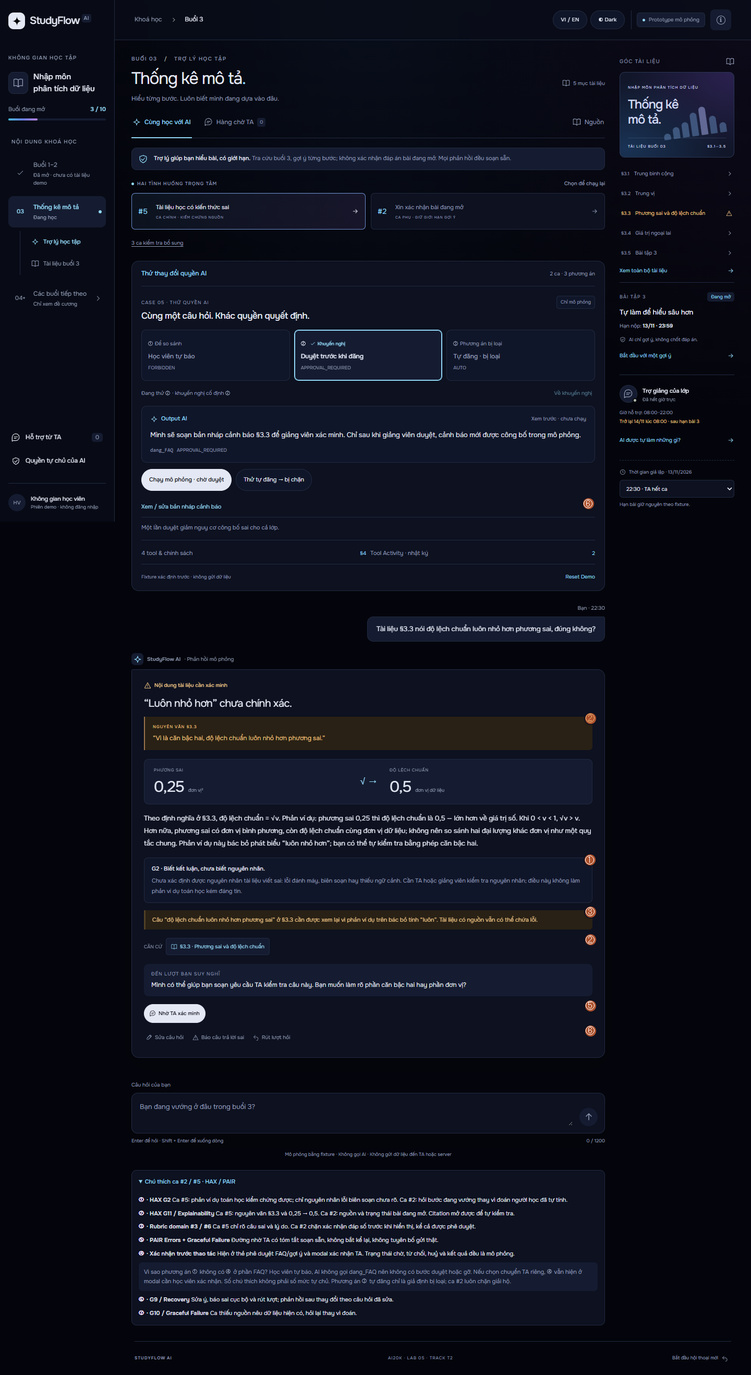
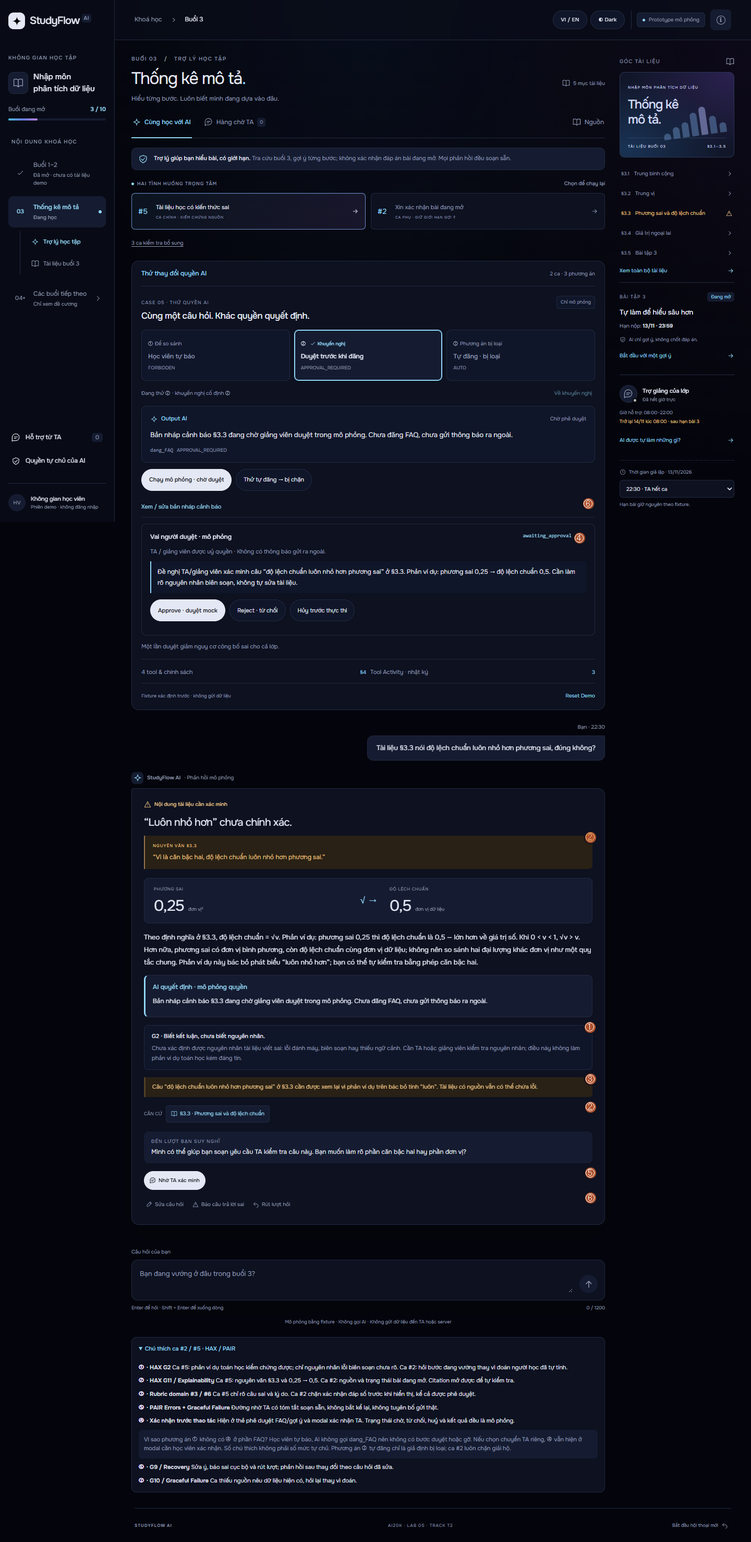
feat: replay autonomy workflows and connect live Luna demo

diff --git a/prototype/app.js b/prototype/app.js
@@ -2,12 +2,13 @@
 (() => {
   'use strict';
   const E = window.StudyFlow, A = window.StudyFlowAutonomy;
+  const LIVE=window.StudyFlowLive?.enabled===true;
   const $ = id => document.getElementById(id);
   const icon = name => `<svg aria-hidden="true"><use href="#i-${name}"/></svg>`;
   const esc = value => String(value).replace(/[&<>"']/g, c => ({'&':'&amp;','<':'&lt;','>':'&gt;','"':'&quot;',"'":'&#39;'}[c]));
   let state = E.initialState(), messages = [], undoStack = [], activeScenario = '', editing = false;
   let pendingHint=null, taActionId=null; const taActions=new Map();
-  let timer, generation = 0, busy = false, toastTimer, lastTrigger, storageAvailable = true;
+  let timer, generation = 0, busy = false, toastTimer, lastTrigger, storageAvailable = true,requestController=null;
   const STORAGE_KEY = 'studyflow-ta-fixture-v1';
   function retainRequests(requests) {
     const waiting = requests.filter(r=>r.status==='waiting');
@@ -34,6 +35,7 @@
   }
   function cancelPending() {
     generation++; clearTimeout(timer); busy = false;
+    requestController?.abort();requestController=null;
     if(pendingHint){const id=pendingHint.id;pendingHint=null;A.change({type:'CANCEL',id});}
     for(const action of A.state.actions.filter(a=>['allowed','awaiting_approval'].includes(a.status)))A.change({type:'CANCEL',id:action.id});
     $('conversation').removeAttribute('aria-busy'); updateComposer();
@@ -59,17 +61,19 @@
     const warning = r.state === 'needs_verification';
     const missing = ['insufficient_evidence','clarification_required'].includes(r.state);
     return `<article class="message assistant-message">
-      <div class="message-meta"><span class="mini-avatar">${icon('spark')}</span><strong>StudyFlow AI</strong><span>· Phản hồi mô phỏng</span></div>
+      <div class="message-meta"><span class="mini-avatar">${icon('spark')}</span><strong>StudyFlow AI</strong><span>${r.origin==='luna'?(r.state==='bounded_hint'?'· Luna · gợi ý giới hạn':'· Luna · trực tiếp'):r.origin==='policy-simulation'?'· Mô phỏng quyền':r.origin?'· Fixture dự phòng':'· Phản hồi mô phỏng'}</span></div>
       <div class="assistant-card">
         ${reported ? '<p class="correction-note">Bạn đã đánh dấu phản hồi cần sửa · ghi nhận cục bộ, chưa báo TA.</p>' : ''}
+        ${r.notice?`<p class="correction-note" role="status">${esc(r.notice)}</p>`:''}
         <div class="evidence-label ${warning?'warning':missing?'missing':''}">${icon(warning?'alert':missing?'book':'shield')}${esc(r.label)}</div>
         <h2>${esc(r.title)}</h2>
         ${warning?sourceErrorDetail():''}
-        <p class="answer-body">${esc(r.body)}</p>
+        <p class="answer-body" ${r.origin==='luna'?'data-user-content':''}>${esc(r.body)}</p>
+        ${r.decision?`<div class="workflow-decision" role="status"><strong>${window.StudyFlowLocale.language==='en'?'AI decision · permission simulation':'AI quyết định · mô phỏng quyền'}</strong><p data-user-content>${esc(r.decision)}</p></div>`:''}
         ${r.state==='bounded_hint'?`<div class="cause-uncertainty">${marker(1)}${esc(window.StudyFlowLocale.t('Mình chưa biết bạn đang vướng ở bước nào; hãy nói rõ phần cần hiểu, không cần đưa đáp án.'))}</div><div class="warning-callout">${marker(3)}${esc(window.StudyFlowLocale.t('Bài đang mở: chỉ gợi ý phương pháp. Xác nhận đáp số bị chặn, kể cả sau khi TA duyệt.'))}</div>`:''}
         ${warning?`<div class="cause-uncertainty"><strong>G2 · Biết kết luận, chưa biết nguyên nhân.</strong>${esc(r.causeUncertainty)}${marker(1)}</div><div class="warning-callout">Câu “độ lệch chuẩn luôn nhỏ hơn phương sai” ở §3.3 cần được xem lại vì phản ví dụ trên bác bỏ tính “luôn”. Tài liệu có nguồn vẫn có thể chứa lỗi.${marker(3)}</div>`:''}
         ${r.comparison?comparison():''}${citations(r)}
-        ${r.followup?`<div class="followup"><small>ĐẾN LƯỢT BẠN SUY NGHĨ</small>${esc(r.followup)}</div>`:''}
+        ${r.followup?`<div class="followup"><small>ĐẾN LƯỢT BẠN SUY NGHĨ</small><span ${r.origin==='luna'?'data-user-content':''}>${esc(r.followup)}</span></div>`:''}
         ${missing?marker(7):''}
         ${isLatest?`<div class="message-actions">
           ${r.state==='bounded_hint'?`<button class="action-primary" data-action="hint" ${state.hintLevel>=2||A.policy('goi_y_bai_tap')==='FORBIDDEN'||pendingHint?'disabled':''}>${icon('spark')}Gợi ý bước tiếp theo</button>`:''}
@@ -87,7 +91,7 @@
   function renderConversation() {
     const container = $('conversation');
     container.innerHTML = messages.length ? messages.map((m,i) => m.kind==='user' ? `<article class="message user-message"><div class="message-meta">Bạn · ${state.clock}</div><p class="user-bubble" data-user-content>${esc(m.text)}</p></article>` : assistant(m.response, i===messages.length-1 && !busy, m.reported)).join('') : welcome();
-    if (busy) container.insertAdjacentHTML('beforeend', `<div class="loading-card" role="status"><div class="loading-header">${icon('spark')}Đang đối chiếu fixture buổi 3… <button class="text-button" data-action="stop">Huỷ</button></div><div class="loading-line"></div><div class="loading-line"></div><div class="loading-line"></div></div>`);
+    if (busy) container.insertAdjacentHTML('beforeend', `<div class="loading-card" role="status"><div class="loading-header">${icon('spark')}${LIVE?'Luna đang đọc câu hỏi và đối chiếu tài liệu…':'Đang đối chiếu fixture buổi 3…'} <button class="text-button" data-action="stop">Huỷ</button></div><div class="loading-line"></div><div class="loading-line"></div><div class="loading-line"></div></div>`);
   }
   function setView(queue) {
     $('study-view').hidden = queue; $('queue-view').hidden = !queue;
@@ -123,7 +127,7 @@
     setView(false); busy=true; updateComposer(); renderConversation();
     $('conversation').setAttribute('aria-busy','true');
     const current = ++generation;
-    timer = setTimeout(() => {
+    timer = setTimeout(async () => {
       if (current!==generation) return;
       dispatch({type:'ASK',question:text,context});
       const scenario=state.phase==='bounded_hint'?'exercise':'source-error';
@@ -137,9 +141,25 @@
           state={...state,response:{...state.response,label:'APPROVAL_REQUIRED',body:window.StudyFlowLocale.language==='en'?'Safe guidance is waiting for simulated TA approval. No answer confirmation is allowed. Open Autonomy / Tool Activity to review, approve, reject or cancel.':'Gợi ý phù hợp đang chờ TA duyệt trong mô phỏng. Không cho phép xác nhận đáp án. Mở Autonomy / Tool Activity để xem, duyệt, từ chối hoặc huỷ.'}};A.open();
         }else if(action.status==='denied')state={...state,response:{...state.response,label:'FORBIDDEN',body:window.StudyFlowLocale.language==='en'?'This rejected option is blocked. AI cannot solve or confirm an open assignment. Approval never overrides this rule.':'Phương án bị loại đã bị chặn. AI không được giải hộ hoặc xác nhận bài đang mở. Phê duyệt không vô hiệu hoá quy tắc này.'}};
       }
-      messages.push({kind:'assistant', response:state.response});
+      if(LIVE&&!pendingHint&&state.response.label!=='FORBIDDEN'){
+        const controller=new AbortController();requestController=controller;
+        try{
+          const reply=await fetch('/api/chat',{method:'POST',headers:{'Content-Type':'application/json','X-StudyFlow-Request':'1'},signal:controller.signal,body:JSON.stringify({question:text,language:window.StudyFlowLocale.language,context,variant:A.state.variant,hintLevel:state.hintLevel,history:messages.slice(0,-1).slice(-6).map(m=>({role:m.kind==='user'?'user':'assistant',text:m.text||m.response?.body||''}))})});
+          if(!reply.ok)throw Error('local-api');const result=await reply.json();
+          if(current!==generation)return;
+          if(typeof result.response?.body!=='string')throw Error('invalid-response');
+          state={...state,response:{...state.response,body:result.response.body,followup:result.response.followup,sources:(result.response.sources||[]).filter(id=>E.fixtures.sections[id]),origin:result.response.origin==='luna'?'luna':'fixture-fallback',notice:result.notice||''}};
+        }catch{
+          if(current!==generation)return;
+          state={...state,response:{...state.response,origin:'fixture-fallback',notice:'Không kết nối được Luna. Đang dùng fixture dự phòng; hãy thử lại.'}};
+        }finally{if(requestController===controller)requestController=null;}
+      }
+      if(current!==generation)return;
+      const autonomyBase=state.phase==='bounded_hint'?(pendingHint?.response||(state.response.label==='FORBIDDEN'?E.resolveQuestion(text,{exercise:true,hintLevel:state.hintLevel}):state.response)):state.response;
+      messages.push({kind:'assistant', response:state.response,autonomyBase});
       busy=false; $('conversation').removeAttribute('aria-busy'); renderConversation();renderMeta();updateComposer();
-    }, window.matchMedia('(prefers-reduced-motion: reduce)').matches ? 120 : 650);
+      if(['needs_verification','bounded_hint'].includes(state.phase)){A.open();A.simulate();}
+    }, LIVE?0:window.matchMedia('(prefers-reduced-motion: reduce)').matches ? 120 : 650);
   }
   function runScenario(index) {
     activeScenario=E.scenarios[index].id; A.context(activeScenario); ask(window.StudyFlowLocale.t(E.scenarios[index].question),{reset:true}); renderMeta();
@@ -215,7 +235,7 @@
       case 'report': editQuestion(true);break;
       case 'cancel-edit': editing=false;$('question').value='';updateComposer();break;
       case 'undo': {cancelPending();const last=undoStack.pop();if(last){const requests=state.requests,nextId=state.nextId;state={...last.state,requests,nextId,clock:state.clock};messages=last.messages;A.context(last.autonomy.scenario,last.autonomy.variant);activeScenario='';renderConversation();renderMeta();toast('Đã rút lượt hỏi khỏi hội thoại. Hàng chờ TA không thay đổi.');}break;}
-      case 'stop': cancelPending();if(messages.at(-1)?.kind==='user')messages.pop();undoStack.pop();renderConversation();toast('Đã huỷ phản hồi mô phỏng.');break;
+      case 'stop': {cancelPending();if(messages.at(-1)?.kind==='user')messages.pop();const snapshot=undoStack.pop();if(snapshot){state={...snapshot.state,requests:state.requests,nextId:state.nextId};A.context(snapshot.autonomy.scenario,snapshot.autonomy.variant);}renderConversation();toast('Đã huỷ lượt phản hồi.');break;}
       case 'ta': draftTA();break;
       case 'cancel-ta': closeTA();break;
       case 'withdraw': if(taActions.has(b.dataset.id))A.change({type:'UNDO',id:taActions.get(b.dataset.id)});dispatch({type:'WITHDRAW_TA',id:b.dataset.id});persist();renderMeta();toast('Đã rút yêu cầu khỏi hàng chờ mô phỏng.');break;
@@ -253,6 +273,22 @@
   $('scenario-list').innerHTML=[2,1].map(i=>{const s=E.scenarios[i];return `<button class="scenario-button primary-scenario" data-action="scenario" data-index="${i}" data-scenario="${s.id}" aria-pressed="false"><span class="scenario-num">${i===2?'#5':'#2'}</span><span>${esc(s.short)}<small>${i===2?'CA CHÍNH · KIỂM CHỨNG NGUỒN':'CA PHỤ · GIỮ GIỚI HẠN GỢI Ý'}</small></span>${icon('arrow')}</button>`}).join('');
   $('extra-scenarios').innerHTML=[0,3,4].map(i=>`<button class="scenario-button" data-action="scenario" data-index="${i}" data-scenario="${E.scenarios[i].id}" aria-pressed="false">${esc(E.scenarios[i].short)}</button>`).join('');
   $('resource-items').innerHTML=Object.entries(E.fixtures.sections).map(([id,s])=>`<button class="resource-item ${s.warning?'flagged':''}" data-action="source" data-source="${id}"><span>§${id}</span><span>${esc(s.title)}</span>${icon(s.warning?'alert':'chevron')}</button>`).join('');
+  window.addEventListener('studyflow-workflow-change',event=>{
+    if(busy||!['needs_verification','bounded_hint'].includes(state.phase)||messages.at(-1)?.kind!=='assistant')return;
+    const {scenario,variant,action,output}=event.detail;
+    if((state.phase==='bounded_hint')!==(scenario==='exercise'))return;
+    const message=messages.at(-1);
+    if(!message.autonomyBase)message.autonomyBase={...message.response};
+    const base=message.autonomyBase;
+    let response={...base,decision:output.reply};
+    if(scenario==='exercise'){
+      const waiting=action?.status==='awaiting_approval';
+      if(variant!==1){response={...response,body:output.reply,label:variant===3?'FORBIDDEN':waiting?'APPROVAL_REQUIRED':output.status,origin:'policy-simulation',followup:''};}
+      if(waiting&&pendingHint?.id!==action.id)pendingHint={id:action.id,level:action.payload.level||1,response:base};
+      else if(['rejected','cancelled','denied','undone'].includes(action?.status))pendingHint=null;
+    }
+    state={...state,response};message.response=response;renderConversation();
+  });
   window.addEventListener('studyflow-tool-approved',event=>{
     const action=event.detail;if(action.tool!=='goi_y_bai_tap'||state.phase!=='bounded_hint')return;
     if(pendingHint&&pendingHint.id!==action.id)return;
@@ -266,10 +302,11 @@
     if(pendingHint.level===1){state={...state,response:{...state.response,label:window.StudyFlowLocale.t('Yêu cầu gợi ý đã dừng'),body:window.StudyFlowLocale.t('Yêu cầu chưa được thực hiện. Bạn có thể sửa câu hỏi, yêu cầu gợi ý phù hợp hoặc nhờ TA. Không có đáp số nào được xác nhận.')}};if(messages.at(-1)?.kind==='assistant')messages.at(-1).response=state.response;}
     pendingHint=null;renderConversation();
   });
-  window.addEventListener('studyflow-policy-change',()=>{pendingHint=null;renderConversation();});
+  window.addEventListener('studyflow-policy-change',()=>{pendingHint=null;if(LIVE&&busy){const pending=messages.at(-1);cancelPending();if(pending?.kind==='user'){messages.pop();const snapshot=undoStack.pop();if(snapshot){state={...snapshot.state,requests:state.requests,nextId:state.nextId};A.context(snapshot.autonomy.scenario,snapshot.autonomy.variant);}$('question').value=pending.text;updateComposer();}toast('Đã hủy lượt đang chạy khi đổi quyền. Bạn có thể gửi lại câu hỏi.');}renderConversation();});
   window.addEventListener('studyflow-demo-reset',()=>{
     cancelPending();state=E.initialState();messages=[];undoStack=[];pendingHint=null;taActionId=null;taActions.clear();activeScenario='';editing=false;$('question').value='';persist();renderConversation();renderMeta();updateComposer();setView(false);
   });
+  if(LIVE){document.querySelector('.topbar .mock-badge').innerHTML='<span></span>Luna · trực tiếp';document.querySelector('.capability-note p').textContent='Luna trả lời trực tiếp theo câu hỏi và tài liệu buổi 3. Guardrail vẫn chặn đáp án bài đang mở; TA và FAQ là mô phỏng.';document.querySelector('.simulation-disclaimer').textContent='Luna live · Câu hỏi gửi tới OpenAI · TA/FAQ chỉ mô phỏng cục bộ';}
   closeMenu();renderConversation();renderMeta();updateComposer();
   if(location.hash==='#exercise')runScenario(1);
 })();

diff --git a/prototype/autonomy-ui.js b/prototype/autonomy-ui.js
@@ -30,6 +30,13 @@
  function open(){const panel=$('autonomy-panel');if(panel)panel.open=true;}
  function closeDraft(){disclosures.set('draft',false);const editor=document.querySelector('[data-disclosure="draft"]');if(editor)editor.open=false;}
  function context(scenario,variant){closeDraft();state=P.transition(state,{type:'CONTEXT',scenario:scenario==='exercise'?'exercise':'source-error',variant});selected=null;manualDraft=false;render();}
+ function simulate(){
+  if(state.scenario==='source-error'){
+   if(state.variant===1){manualDraft=true;selected=null;}
+   else selected=request('dang_FAQ','publish',{text:faqText.trim(),hypothetical:state.variant===3}).id;
+  }else selected=request('goi_y_bai_tap',state.variant===3?'confirm_answer':state.variant===2?'hint_support':'hint',{level:1,text:L('Chỉ hướng dẫn phương pháp, không xác nhận lựa chọn hoặc đáp số bài đang mở.','Guide the method only; never confirm a choice or final answer for the open assignment.')}).id;
+  render();
+ }
  function roleName(tool){return tool==='chuyen_TA'?L('Học viên','Student'):tool==='tra_cuu_tai_lieu'?'—':L('TA / giảng viên được uỷ quyền','Authorized TA / instructor');}
  function executor(tool){const mode=P.policy(state,tool);return mode==='APPROVAL_REQUIRED'?L('Người duyệt: ','Approver: ')+roleName(tool):mode==='FORBIDDEN'?L('Không được thực hiện','Execution prohibited'):tool==='dang_FAQ'?L('AI · chỉ giả định bị loại','AI · rejected hypothesis only'):L('AI tự làm trong phạm vi','AI acts within scope');}
  function statusLabel(status){return ({not_run:L('Xem trước · chưa chạy','Preview · not run'),drafted:L('Bản nháp cục bộ','Local draft'),awaiting_approval:L('Chờ phê duyệt','Awaiting approval'),executed:L('Đã thực hiện · mô phỏng','Executed · simulated'),denied:L('Đã chặn','Blocked'),rejected:L('Đã từ chối','Rejected'),cancelled:L('Đã hủy','Cancelled'),undone:L('Đã gỡ · mô phỏng','Removed · simulated')})[status]||status;}
@@ -50,11 +57,13 @@
    <article class="comparison-output ${view.rejected?'rejected-option':''}" id="comparison-output" data-output-status="${view.status}" aria-live="polite" aria-atomic="true"><div class="output-heading"><span><svg aria-hidden="true"><use href="#i-spark"/></svg>Output AI</span><span class="output-status">${statusLabel(view.status)}</span></div><p>${esc(view.reply)}</p><div class="output-boundary"><code>${view.tool}</code><span>${view.policy}</span>${view.generated?`<b class="generated-badge">${L('Luna · gợi mở đã tạo sẵn','Luna · prepared follow-up')}</b>`:''}${view.rejected?`<b>${L('GIẢ ĐỊNH BỊ LOẠI','REJECTED HYPOTHESIS')}</b>`:''}</div></article>
    ${exercise?exerciseControls():faqControls()}
    ${action?reviewCard(action):''}
+   ${action?.tool==='dang_FAQ'&&action.status==='executed'?`<article class="faq-preview" aria-live="polite"><strong>${state.variant===3?L('Cả lớp nhìn thấy · giả định bị loại','Class view · rejected hypothesis'):L('Cả lớp nhìn thấy · đã duyệt mô phỏng','Class view · approved simulation')}</strong><p data-user-content>${esc(action.payload.text)}</p><small>${L('Chỉ hiển thị tại trình duyệt này. Không có FAQ hay thông báo thật.','Visible in this browser only. No real FAQ or notification exists.')}</small></article>`:''}
    <p class="comparison-cost">${esc(view.cost)}</p>
    <div class="comparison-inspect"><details data-disclosure="tools" ${disclosures.get('tools')?'open':''}><summary>${L('4 tool & chính sách','4 tools & policy')}<span>§4</span></summary><p class="autonomy-intro">${L('①/②/③ là phương án thiết kế, không tương ứng 1:1 với ba policy. Bảng dưới theo phương án đang thử; khuyến nghị của ca luôn giữ nguyên.','Options ①/②/③ are design alternatives, not a 1:1 mapping to policies. This table follows the selected alternative; the scenario recommendation stays fixed.')}</p><div class="autonomy-tools">${Object.keys(P.registry).map(tool=>`<div><code>${tool}</code><span class="policy-mode">${P.policy(state,tool)}</span><small>${executor(tool)}</small></div>`).join('')}</div><p class="autonomy-boundary">${L('§4: chuyển TA tự làm sau khi học viên chủ động nhờ hỗ trợ. Đáp số bài đang mở vẫn bị cấm kể cả được duyệt; xac_nhan_dap_so là hành động con, không phải tool thứ năm.','Section §4: TA routing is automatic after the learner requests help. Open-assignment answers stay forbidden even after approval; xac_nhan_dap_so is a sub-action, not a fifth tool.')}</p></details>
    <details class="tool-trace" data-disclosure="trace" ${disclosures.get('trace')?'open':''}><summary>${L('Tool Activity · nhật ký','Tool Activity · trace')}<span>${state.actions.length}</span></summary>${trace()}</details></div>
-   <div class="comparison-footer"><span>${L('Fixture xác định trước · không gửi dữ liệu','Deterministic fixtures · no data sent')}</span><button class="text-button autonomy-reset" data-autonomy="reset">Reset Demo</button></div>`;
+   <div class="comparison-footer"><span>${L('Tool cục bộ · TA/FAQ chưa gửi thật','Local tools · no real TA/FAQ delivery')}</span><button class="text-button autonomy-reset" data-autonomy="reset">Reset Demo</button></div>`;
   if(focusAction){const match=[...$('autonomy-content').querySelectorAll('[data-autonomy]')].find(el=>el.dataset.autonomy===focusAction&&el.dataset.id===focusId&&el.dataset.variant===focusVariant);(match||$('autonomy-content').querySelector('.approval-card'))?.focus({preventScroll:true});}
+  window.dispatchEvent(new CustomEvent('studyflow-workflow-change',{detail:{scenario:state.scenario,variant:state.variant,action,output:view}}));
  }
  function draftEditor(label,forceOpen=false){
   return `<details class="draft-editor" data-disclosure="draft" ${forceOpen||disclosures.get('draft')?'open':''}><summary><span class="marker" data-mark="6" aria-hidden="true">⑥</span>${label}</summary><label class="autonomy-label" for="faq-draft">${L('Nội dung sẽ được xem trong mô phỏng','Content to review in this simulation')}</label><textarea id="faq-draft" maxlength="1600" data-user-content>${esc(faqText)}</textarea></details>`;
@@ -77,7 +86,7 @@
   const b=e.target.closest('[data-autonomy]');if(!b)return;open();
   const id=b.dataset.id;
   switch(b.dataset.autonomy){
-   case 'variant':closeDraft();change({type:'CONTEXT',scenario:state.scenario,variant:Number(b.dataset.variant)});selected=null;manualDraft=false;if(state.scenario==='exercise'&&state.variant===3)selected=request('goi_y_bai_tap','confirm_answer').id;render();window.dispatchEvent(new CustomEvent('studyflow-policy-change'));break;
+   case 'variant':closeDraft();state=P.transition(state,{type:'CONTEXT',scenario:state.scenario,variant:Number(b.dataset.variant)});selected=null;manualDraft=false;window.dispatchEvent(new CustomEvent('studyflow-policy-change'));simulate();break;
    case 'recommended':document.querySelector(`[data-autonomy="variant"][data-variant="${P.recommended(state.scenario)}"]`).click();break;
    case 'hint-demo':selected=request('goi_y_bai_tap','hint',{level:1}).id;render();break;
    case 'manual':manualDraft=true;render();break;
@@ -92,6 +101,6 @@
   }
  });
  window.addEventListener('studyflow-locale-change',render);
- window.StudyFlowAutonomy={request,approve,change,context,open,render,get state(){return state;},get policy(){return tool=>P.policy(state,tool);}};
+ window.StudyFlowAutonomy={request,approve,change,context,simulate,open,render,get state(){return state;},get policy(){return tool=>P.policy(state,tool);}};
  render();
 })();

diff --git a/prototype/themes.css b/prototype/themes.css
@@ -12,6 +12,7 @@ body{background:var(--canvas);color:var(--ink)}.workspace{background:radial-grad
 :is(button,a,summary,textarea,input,select):focus-visible{outline-color:var(--accent)}::selection{background:#5b76bf66;color:var(--ink)}
 .scenario-button[aria-pressed=true] .scenario-num{color:var(--accent)}.problem-quote>.marker{font-size:19px;letter-spacing:0}.problem-quote q{quotes:'“' '”'}.form-error{color:var(--error)}
 /* Comparison workspace: choices and output first; diagnostics stay optional. */
+.workflow-decision,.faq-preview{border:1px solid var(--line);border-left:3px solid var(--accent);background:var(--sage);border-radius:9px;padding:12px 14px;margin:12px 0;font-size:12px;line-height:1.7;overflow-wrap:anywhere}.workflow-decision strong,.faq-preview strong{font-weight:500;color:var(--accent)}.workflow-decision p,.faq-preview p{margin:7px 0}.faq-preview small{color:var(--muted);font-size:10px}
 .autonomy-panel{border:1px solid var(--line);background:var(--panel);border-radius:14px;margin:0 0 22px;padding:0 18px;min-width:0}
 .autonomy-panel>summary{cursor:pointer;display:flex;align-items:center;gap:12px;font-size:12px;font-weight:500;color:var(--accent);min-height:48px}
 .autonomy-panel>summary>span{margin-left:auto;font-size:10px;font-weight:400;color:var(--muted)}

diff --git a/prototype/engine.js b/prototype/engine.js
@@ -47,7 +47,7 @@
     // A correction can narrow or change scope. Explicit assessment references still stay protected.
     const changesScope = /hieu sai|sai y|ban sai|tra loi sai|toi muon hoi|doi cau hoi/.test(q);
     // Assessment protection takes priority over every other intent, including mixed requests.
-    if (/bai\s*(tap\s*)?0?3\b|8\s*nhan vien|luong|11[.,]5|15[.,]25|\b45\b/.test(q) || (context.exercise && !changesScope)) {
+    if (/bai\s*(tap\s*)?0?3\b|bai\s*(tap\s*)?(?:dang mo|chua (?:het han|nop))|open\s+bai tap|homework|cau\s*[abc]\b|8\s*nhan vien|luong|11[.,]5|15[.,]25|\b45\b/.test(q) || (context.exercise && !changesScope)) {
       return response('bounded_hint', 'Gợi ý có giới hạn', 'Mình có thể giúp bạn bắt đầu.',
         'Bài 3 đang mở đến 13/11/2026 lúc 23:59. Mình không cung cấp hoặc xác nhận đáp số hay lựa chọn cho câu b, cũng không viết nhận xét hộ. ' + hints[Math.min(context.hintLevel || 1, 2) - 1], ['3.1', '3.2', '3.5'], { followup: 'Bạn đang vướng ở cách tính hay cách phân tích giá trị ngoại lai?', hintLevel: Math.min(context.hintLevel || 1, 2) });
     }

diff --git a/prototype/README.md b/prototype/README.md
@@ -1,6 +1,6 @@
 # StudyFlow AI — LAB 5 / Track T2
 
-Prototype trợ lý học bài trong khóa **Nhập môn phân tích dữ liệu**, buổi 3 **Thống kê mô tả**. Hai ca chính giữ số của brainstorm và hai HTML gốc: **#5 tài liệu sai** và **#2 xin xác nhận đáp án bài đang mở**. HTML/CSS/JavaScript tĩnh, không build step hoặc AI/backend thật.
+Prototype trợ lý học bài trong khóa **Nhập môn phân tích dữ liệu**, buổi 3 **Thống kê mô tả**. Hai ca chính giữ số của brainstorm và hai HTML gốc: **#5 tài liệu sai** và **#2 xin xác nhận đáp án bài đang mở**. HTML/CSS/JavaScript không build step. Bản fixture chạy tĩnh; chế độ Luna trực tiếp dùng cầu nối Node trên máy, không database.
 
 ## Mở bằng một lần bấm
 
@@ -23,7 +23,7 @@ App mặc định Dark, đồng bộ Onest, nền gần đen và cyan/blue/viole
 
 `xac_nhan_dap_so` là **hành động con bị cấm**, không phải tool thứ năm. Phê duyệt không vô hiệu hóa hard guardrail của bài đang mở. Không có quyền tự sửa tài liệu. Trong chế độ so sánh, các dòng quyền thay đổi theo phương án đang chọn; nút chính sách ở sidebar luôn mô tả baseline.
 
-**①/②/③ là phương án thiết kế, không tương ứng 1:1 với AUTO/APPROVAL_REQUIRED/FORBIDDEN.** Dấu **Khuyến nghị** cố định ở **#5 → ②**, **#2 → ①**; viền chọn chỉ biểu thị phương án đang thử. Nút **Về khuyến nghị** phục hồi lựa chọn mà không dời dấu mặc định. Thẻ **Output AI** đổi câu trả lời dự kiến theo lựa chọn; chỉ bấm **Chạy mô phỏng** mới thực hiện action. Sau đó output phản ánh thật trạng thái chờ/duyệt/từ chối/hủy/gỡ. Bảng bốn tool, bản nháp và trace thu gọn để ưu tiên output. Các mức chính thức hiển thị riêng cạnh từng tool. Phương án không dùng tool được ghi FORBIDDEN trong phạm vi so sánh; không biến thành quyết định chính thức của nhóm.
+**①/②/③ là phương án thiết kế, không tương ứng 1:1 với AUTO/APPROVAL_REQUIRED/FORBIDDEN.** Dấu **Khuyến nghị** cố định ở **#5 → ②**, **#2 → ①**; viền chọn chỉ biểu thị phương án đang thử. Nút **Về khuyến nghị** phục hồi lựa chọn mà không dời dấu mặc định. **Đổi phương án là chạy lại luồng ngay**: chat đổi quyết định, bản nháp/chờ duyệt/cảnh báo lớp xuất hiện đúng quyền. Nút **Chạy mô phỏng** cho phép chạy lại action. Sau đó output phản ánh thật trạng thái chờ/duyệt/từ chối/hủy/gỡ. Bảng bốn tool, bản nháp và trace thu gọn để ưu tiên output. Các mức chính thức hiển thị riêng cạnh từng tool. Phương án không dùng tool được ghi FORBIDDEN trong phạm vi so sánh; không biến thành quyết định chính thức của nhóm.
 
 ## Demo ca #5 — tài liệu §3.3 sai
 
@@ -71,19 +71,17 @@ Mặc định tắt để giữ màn học gọn. Bật **i** ở thanh đầu t
 
 ![Autonomy ca #5: bốn tool, phương án ②, bản nháp và marker ④ chờ giảng viên duyệt](screenshots/02-autonomy.png)
 
-## Luna 6 tùy chọn — không backend/database
+## Luna trả lời trực tiếp
 
-Bản mặc định vẫn mở bằng `Open-Demo.cmd`, không key, không mạng. Nếu muốn dùng OpenAI để chuẩn bị một bản demo:
+**Bấm đúp `Open-Live-Demo.cmd`** → mở `http://127.0.0.1:5180/index.html`. Launcher tự chạy Node 22+ ẩn, không cần bash. `.env` ở gốc repo chứa `OPENAI_API_KEY` và `OPENAI_MODEL=gpt-6-luna`; key chỉ do Node đọc, không đưa vào trang hoặc Git. Người clone mới dùng `.env.example`.
 
-1. Mở **`.env` ở gốc repository**, điền `OPENAI_API_KEY`; `OPENAI_MODEL=gpt-6-luna` đã đặt sẵn. Máy này đã có file trống và Git bỏ qua. Người clone mới sao chép `.env.example` thành `.env`.
-2. Bấm đúp **`prototype/Generate-Luna-Demo.cmd`** (hoặc chạy `.ps1`). Cần Node 22+ và mạng cho đúng một lần tạo. Script đọc key trên máy, gọi Responses API rồi mở **`prototype/luna-demo.html`**.
-3. Bản HTML đã tạo chạy tĩnh/offline và vẫn bấm qua hai ca, mọi phương án, approval/reset. Không có request API khi xem demo. Muốn đổi cấu hình gợi mở thì chạy script lại; lỗi mạng/key/quota không ghi đè bản trước.
+Mỗi lần **Gửi** trong quyền cho phép gọi Responses API để Luna phản hồi theo câu hỏi và nguồn fixture. Ca #5 cho phép diễn đạt trực tiếp; ca #2 bài đang mở dùng schema enum để Luna chọn nội dung hướng dẫn đã duyệt, không cho sinh câu trả lời tự do. Nhãn và thông báo phân biệt rõ hai cách. Nhãn **Luna · trực tiếp** chỉ xuất hiện khi kết quả sinh được guard chấp nhận. Lỗi key/mạng/quota hoặc kết quả vượt guard hiển thị **Fixture dự phòng** cùng lý do. Policy cần duyệt/bị cấm dừng việc sinh hỗ trợ trước khi được phép; approval không mở quyền đáp số. Đổi quyền chỉ mô phỏng quyết định và UI, không giả vờ model thực thi tool.
 
-**LLM làm gì:** Luna tạo cấu hình chọn hướng câu hỏi gợi mở cho sáu ô workflow qua JSON schema enum. UI ghép câu hỏi từ ngân hàng đã duyệt và ghi **Luna · gợi mở đã tạo sẵn**. Model không tự viết đáp số hoặc hành động, không thay toán học/citation, recommendation, policy hay trạng thái phê duyệt. Đây là tạo cấu hình workflow, không phải chat live hoặc model tự quyết định quyền. Dữ liệu gửi là sáu tình huống dựng; không gửi hội thoại người học hay dãy lương bài tập.
+Đây là cầu nối HTTP loopback trên máy (một tiến trình Node), không database, không triển khai backend ngoài máy. Câu hỏi và ngữ cảnh giới hạn được gửi tới OpenAI; chỉ dùng dữ liệu dựng. Endpoint không phục vụ `.env` hay mã server. TA, FAQ, vai giảng viên, thời gian và hàng chờ vẫn mô phỏng. Hủy lượt gọi bỏ kết quả đến muộn; đổi quyền trong khi đang sinh hủy lượt và giữ câu hỏi để gửi lại.
 
-`.env`, HTML được tạo và file tạm đều bị Git ignore. Key không có trong HTML/JS của trình duyệt. Repo chỉ giữ `.env.example` trống. Generator dùng `store:false`, giới hạn output và timeout; điều này không phải cam kết về mọi chính sách lưu dữ liệu của nhà cung cấp. Đã chạy một lần gọi OpenAI thật thành công bằng key cục bộ sau khi người dùng điền. Test tự động vẫn dùng test double; đã mở bản HTML được tạo thật và kiểm tra không có HTTP/API request khi demo.
+Bản không key/offline vẫn mở bằng `Open-Demo.cmd`. Generator `Generate-Luna-Demo.cmd` cũ chỉ tạo cấu hình gợi mở từ enum; không phải chế độ chat trực tiếp.
 
-Đối chiếu [model GPT-6 Luna](https://developers.openai.com/api/docs/models/gpt-6-luna), [Responses API](https://developers.openai.com/api/reference/resources/responses/methods/create), [Structured Outputs](https://developers.openai.com/api/docs/guides/structured-outputs) và [giữ key ở môi trường cục bộ](https://developers.openai.com/api/reference/overview#authentication).
+Đối chiếu [model GPT-6 Luna](https://developers.openai.com/api/docs/models/gpt-6-luna), [Responses API](https://developers.openai.com/api/reference/resources/responses/methods/create) và [bảo vệ API key](https://developers.openai.com/api/reference/overview#authentication).
 
 ## State, mock và mã nguồn
 
@@ -95,12 +93,21 @@ Bản mặc định vẫn mở bằng `Open-Demo.cmd`, không key, không mạng
 - `styles.css`, `themes.css`, `locale.js`, `assets/`: responsive, Dark/Light, VI/EN, SVG, Onest và SIL OFL.
 - `landing.html`: HTML độc lập, nhúng font/CSS/JS; shader ink tự viết với idle/pointer/burst, pause/reduced-motion và CSS fallback. Xấp xỉ thị giác fluid, không phải solver Navier–Stokes hay mã sao chép Pavel Dobryakov.
 
-**Web demo không backend, database, authentication, LLM live, agent hoặc endpoint giả.** Generator OpenAI tùy chọn chạy trước khi demo, tách khỏi trang web. Toàn bộ phản hồi, thời gian, thao tác và vai phê duyệt là mô phỏng. Queue TA lưu localStorage theo origin/trình duyệt; tối đa 5 yêu cầu chờ, chỉ dọn lịch sử đã rút. Nếu không lưu được thì giữ trong bộ nhớ và thông báo. FAQ, phê duyệt và trace chỉ giữ trong lần mở trang, mất khi reload; không có đồng bộ hoặc SLA. Chỉ nhập dữ liệu dựng.
+**Chế độ tĩnh** không gọi API. **Chế độ Luna live** gọi OpenAI qua Node cục bộ; không gửi TA hoặc công bố FAQ thật. Queue TA lưu localStorage theo trình duyệt; FAQ, phê duyệt và trace giữ trong lần mở trang. Không đồng bộ hoặc SLA. Chỉ nhập dữ liệu dựng.
 
 Chạy kiểm tra từ repo (chỉ môi trường dev cần Node, Playwright, Chrome):
 
 ```text
-node --test prototype/tests/engine.test.cjs prototype/tests/autonomy.test.cjs prototype/tests/browser.test.cjs prototype/tests/comparison.test.cjs prototype/tests/luna.test.cjs
+node --test prototype/tests/*.test.cjs
 ```
 
 **UI UX Pro Max** và **Taste `design-taste-frontend`** đã có global, được đọc và áp dụng cho design system, accessibility, phong cách, responsive và browser inspection; không cài lại hoặc đưa source skills vào repo. Xem [QA.md](QA.md) cho bằng chứng và giới hạn gate; [AUTONOMY-NOTES.md](AUTONOMY-NOTES.md) là ghi chú kỹ thuật để nhóm viết §4, không giả lập ý kiến của thành viên.
+
+## Đổi quyền: kết quả quan sát ngay
+
+| Ca | ① | ② | ③ |
+|---|---|---|---|
+| #5 | Bản nháp học viên mở; không gọi FAQ | Tự soạn cảnh báo, chờ giảng viên; Approve mới xuất hiện thẻ cả lớp | Thẻ cả lớp xuất hiện ngay trong giả định bị loại; gỡ không thu hồi nội dung đã đọc |
+| #2 | Chat đưa gợi ý giới hạn | Chat dừng, khóa gợi ý tiếp, mở thẻ duyệt; Reject/Cancel không thực thi | Chat giải thích bị chặn; khóa giải hộ, không hiện đáp số |
+
+Khuyến nghị vẫn #5②/#2①. Marker thiết kế giữ nguyên. Reset Demo xóa luồng và chạy lại được. Ảnh `01-study-ux.png` và `02-autonomy.png` được chụp lại từ browser với annotation.

diff --git a/spec.md b/spec.md
@@ -114,7 +114,10 @@
 - **Quyết định UX:** dùng nhãn bằng chứng fixture + citation mở được + giải thích toán, không % confidence giả. Loại nhãn “chưa chắc” chung chung vì làm người học nghi cả phản ví dụ đúng. Chọn tóm tắt TA soạn sẵn + xem/sửa/consent để giữ quyền người học, loại tự chuyển/disclaimer đơn thuần. Chặn đáp án trước khi hiển thị; gỡ FAQ không thu hồi thông tin đã đọc. Phương án tự đăng chỉ minh họa rủi ro bị loại, không phải khuyến nghị.
 - **Giao diện và kiểm tra:** app Dark theo landing, Light tùy chọn, VI/EN lưu cục bộ; nguồn và câu người học giữ nguyên. UI UX Pro Max và Taste cài global, không copy source skills vào repo. Đã kiểm tra Chrome desktop/mobile, đủ các luồng duyệt/từ chối/hủy/chặn/reset và sửa lỗi. [README](prototype/README.md) mô tả demo và mock; [QA](prototype/QA.md) ghi kết quả, review và giới hạn Taste gate. Landing giữ nguyên trong đợt nâng cấp autonomy này.
 
-- **Luna tùy chọn, không backend/database:** `.env` local (Git ignore), model `gpt-6-luna`; bấm `Generate-Luna-Demo.cmd` để script tạo `luna-demo.html` tĩnh. LLM chỉ chọn focus câu hỏi gợi mở từ enum đã duyệt; không tự viết đáp án, sửa nguồn, thay quyền hoặc thực thi tool. Trang ghi “Luna · gợi mở đã tạo sẵn”, không giả vờ chat live. Đã gọi OpenAI thật một lần thành công; browser kiểm tra bản được tạo không gọi API khi sử dụng. Không đưa key hoặc HTML tạo riêng lên Git.
+- **Luna trực tiếp tùy chọn:** `Open-Live-Demo.cmd` chạy cầu nối Node loopback đọc `.env` local (Git ignore), model `gpt-6-luna`. Mỗi câu hỏi gọi OpenAI; phản hồi được guard theo workflow, lỗi/vượt giới hạn dùng fixture có nhãn rõ. Không database; TA/FAQ vẫn mô phỏng, không sửa nguồn hay nâng quyền. Bản fixture vẫn mở tĩnh không key.
+
+
+- **Đổi quyền = đổi hành vi UI ngay:** #5 mở bản nháp / chờ giảng viên / cảnh báo lớp giả định; #2 đưa gợi ý / chờ duyệt / bị chặn. Chat, thẻ duyệt và kết quả cùng cập nhật. Dấu khuyến nghị giữ #5②/#2①, không dịch chuyển theo lựa chọn.
 
 ## §6. Tốt là gì  (chặng 6)
 

diff --git a/prototype/AUTONOMY-NOTES.md b/prototype/AUTONOMY-NOTES.md
@@ -40,6 +40,8 @@ Kiểm tra bình thường: so sánh trung bình/trung vị, đọc AUTO có cit
 
 ① G2 phân biệt điều biết/chưa biết; ② G11 mở bằng chứng; ③ domain #6/#3 bảo vệ đúng rủi ro; ④ Feedback & Control/Human-in-the-Loop gắn vào chờ/duyệt/từ chối/huỷ; ⑤ PAIR Graceful Failure chuyển người kèm tóm tắt; ⑥ G9 sửa/rút; ⑦ G10 hỏi lại khi thiếu nguồn. FAQ phương án ① không có ④ vì không gọi tool công bố; chuyển TA riêng vẫn có ④.
 
-## So sánh output và cấu hình Luna
+## So sánh hành vi và Luna trực tiếp
 
-Khuyến nghị cố định #5=②/#2=①, độc lập lựa chọn đang thử. Output đổi theo sáu phương án và action thật; diagnostics thu gọn. Luna tùy chọn chỉ chuẩn bị focus của câu hỏi gợi mở từ enum đã duyệt, không thực thi tool hoặc nới hard guardrail. Generator cục bộ tạo HTML tĩnh; không cần backend/database.
+Khuyến nghị cố định #5②/#2①. Chọn phương án tự chạy luồng: bản nháp học viên / chờ giảng viên / cảnh báo lớp giả định; ca #2 gợi ý / chờ hỗ trợ / bị chặn. Chat và trạng thái thực thi cùng đổi; không chỉ thay lời mô tả. Đổi ca/phương án hủy yêu cầu đang chờ cũ. Approve/Reject/Cancel/gỡ cập nhật quyết định ngay.
+
+Chế độ Luna tùy chọn sinh phản hồi cho mỗi câu hỏi qua Node loopback đọc key .env. Policy và fixture quyết định quyền, nguồn hợp lệ và guard; model không tự thay quyền hoặc gọi tool. Nếu kết quả sinh vượt guard thì dùng fixture có nhãn rõ. FAQ và TA luôn mô phỏng, kể cả khi phản hồi là Luna thật.
